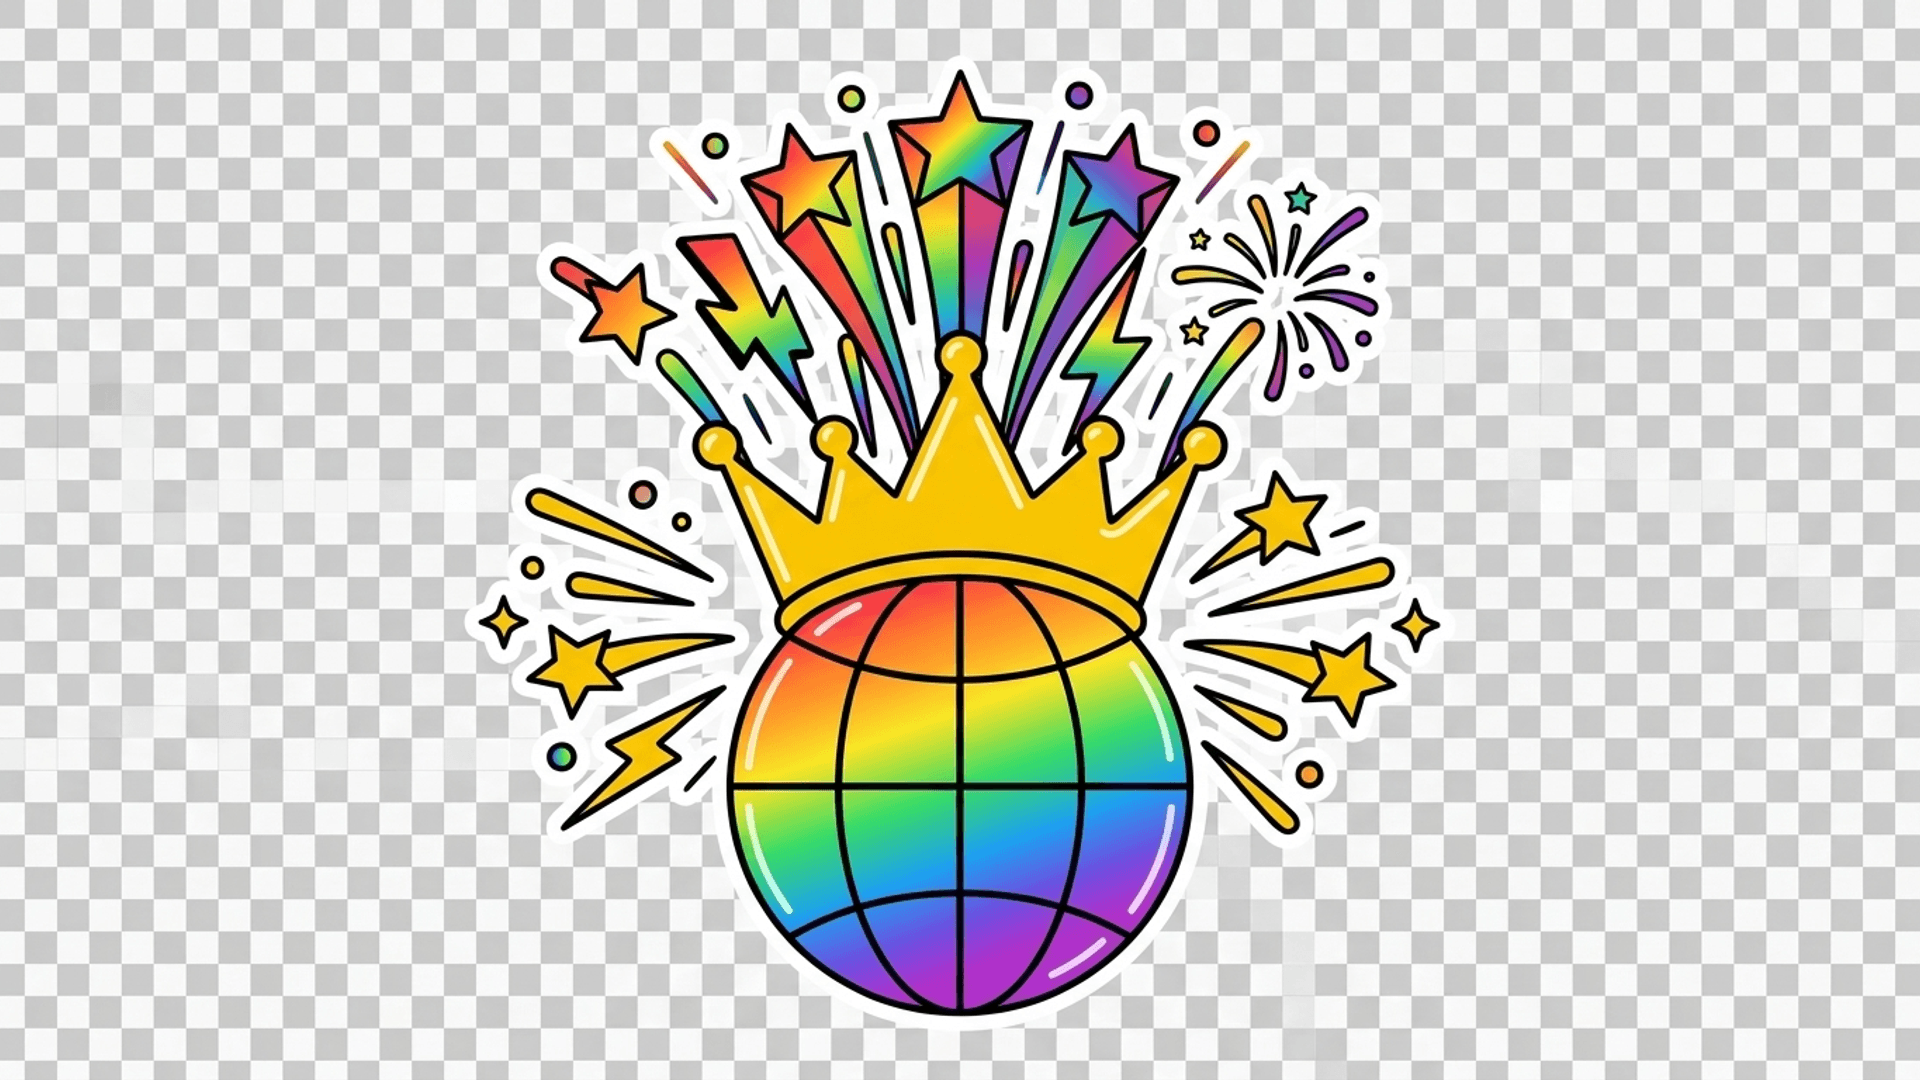
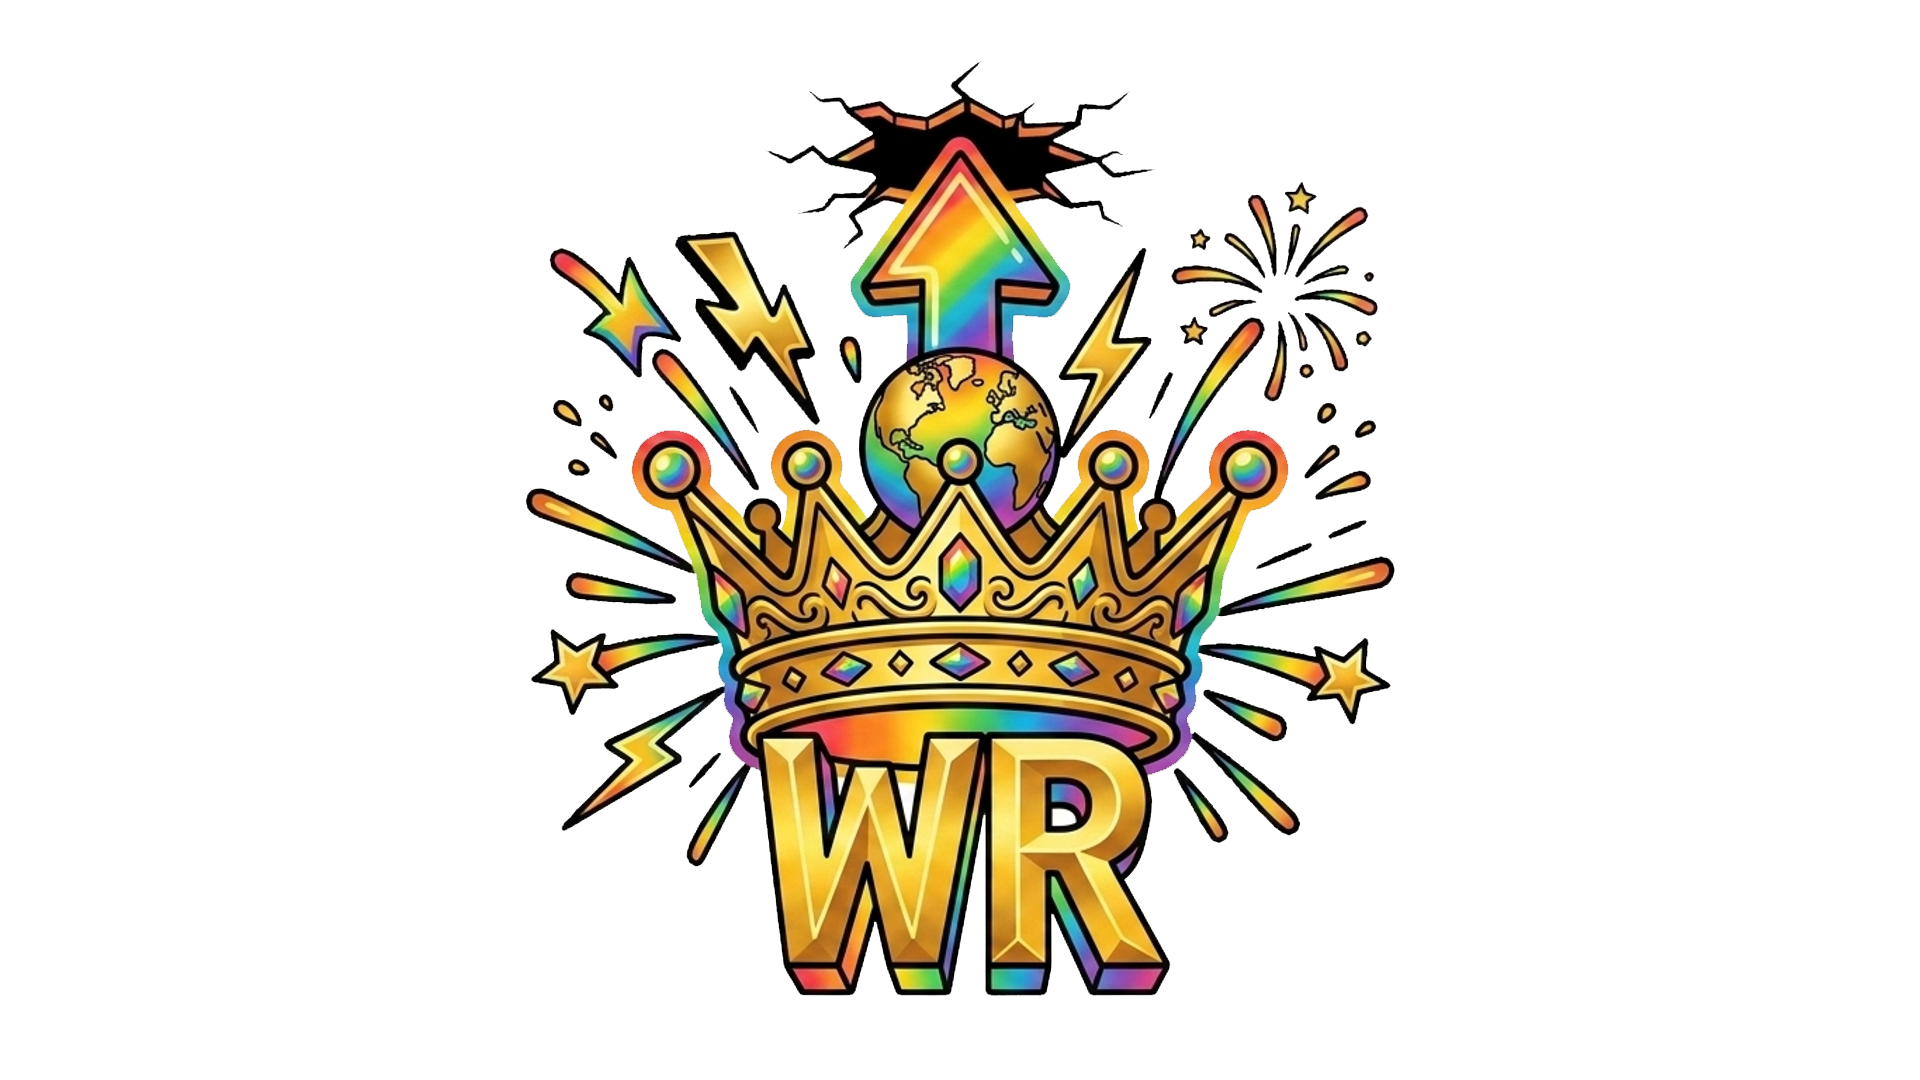
chore: WR バッジ画像差し替え(加工済み)

diff --git a/scripts/gen-wr-candidates.ts b/scripts/gen-wr-candidates.ts
@@ -1,0 +1,45 @@
+import { generateImage } from "./gemini-client";
+import sharp from "sharp";
+import * as fs from "node:fs";
+
+const REF = "public/assets/final/achievement/pb-update.png";
+const OUT_DIR = "data/wr-candidates";
+
+const PROMPT = `Look at the reference image carefully. Generate a NEW image in the EXACT SAME style, size, composition, and layout as the reference.
+
+The reference shows: a sticker-style illustration centered on a white background, with bold black outlines, flat green color fill, a crown motif with an upward arrow, lightning bolts, stars, and sparkle effects radiating outward. The illustration is centered and does NOT touch the edges — there is plenty of white space margin around it.
+
+Now create the SAME style illustration but for "WORLD RECORD" instead of "PB":
+- Replace the green color with GOLD (#FFD700) and rainbow accents
+- Replace "PB" text with "WR" text in the same bold style
+- Keep the crown motif but make it more elaborate (larger, more ornate)
+- Add a small globe element
+- Keep the same lightning bolts, stars, radiating lines style
+- Keep the same white background with generous margins
+- Keep the same overall SIZE of the illustration relative to the canvas — do NOT make it bigger than the reference
+- Same black outline thickness, same sticker aesthetic
+
+CRITICAL: The illustration must be the SAME SIZE as in the reference. Do NOT scale it up to fill the frame. Maintain the same white space margins.`;
+
+async function main() {
+  fs.mkdirSync(OUT_DIR, { recursive: true });
+  for (let i = 1; i <= 20; i++) {
+    const n = String(i).padStart(2, "0");
+    console.log(`[${n}/20] Generating...`);
+    try {
+      const png = await generateImage(PROMPT, REF, { resolution: "1K" });
+      const out = await sharp(png)
+        .resize(1920, 1080, { fit: "cover" })
+        .png()
+        .toBuffer();
+      fs.writeFileSync(`${OUT_DIR}/wr-${n}.png`, out);
+      console.log(`  → OK (${(out.length / 1024) | 0} KB)`);
+    } catch (err: unknown) {
+      const msg = err instanceof Error ? err.message.slice(0, 120) : String(err);
+      console.error(`  → FAIL: ${msg}`);
+    }
+  }
+  console.log("Done.");
+}
+
+main();
